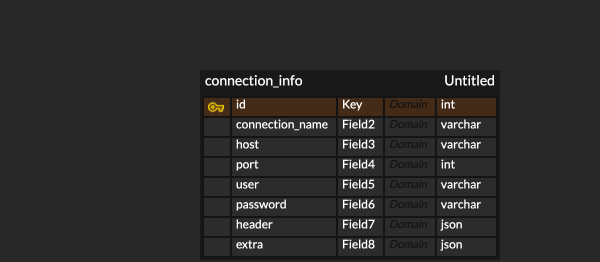
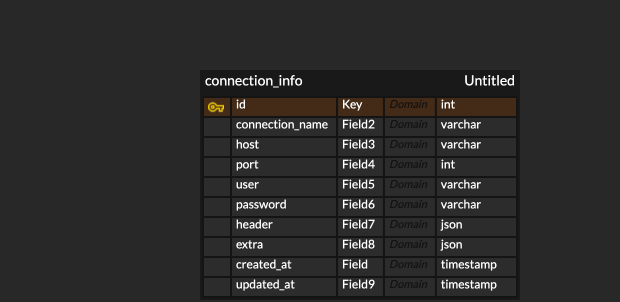
entity 정의 프로세스 가이드 정리 및 data 모델링 내용 추가

Changed region(s): [[0.33, 0.2443, 0.84, 0.9771], [0.69, 0.458, 0.81, 0.9771]]

diff --git a/design/Development_Process/DataModeling_process.md b/design/Development_Process/DataModeling_process.md
@@ -1,15 +1,13 @@
 # DB connection 관리 로직
 
-# Data modeling이 완료된 데이터 베이스 생성 프로세스
-
-## 1. Data modeling 진행 후 Aliembic을 통해 마이그레이션 징행
+## 1. Data modeling 진행 후 Aliembic을 통해 마이그레이션 진행
 
 ---
 
 <aside>
-💡 alembic 최초 실행시에는 ‘alembic init’ 명령어를 통해 필요 파일들을 자동으로 생성해주게됩니다 사용자는 **‘alembic.ini’ 파일에서 connection 정보를 변경하거나 [env.py](http://env.py) 파일의 특정 함수를 추가해줌으로써 연결에 대한 정보를 변경 할 수 있도록 설정해야합니다**
+💡 alembic 최초 실행시에는 ‘alembic init’ 명령어를 통해 필요 파일들을 자동으로 생성해주게됩니다 사용자는 ‘alembic.ini’ 파일에서 connection 정보를 변경하거나 env.py 파일의 특정 함수를 추가해줌으로써 연결에 대한 정보를 변경 할 수 있도록 설정해야합니다
 
-</aside>
+</aside> </br>
 
 ### alembic revision
 
@@ -33,13 +31,13 @@ alembic revision -m {메모}
 ```bash
 alembic upgrade head
 ```
-
+<br>
 <aside>
 💡 alembic을 통한 마이그레이션 시 의존성 처리
-alembic은 선행 되어진 마이그레이션 정보와 현재의 마이그레이션에 대한 내용의 의존성을 처리하기 위해 특정 변수들을 활용해 비교를 하게됩니다 또한 이 변수는 마이그레이션하게되는 타겟 database의 table 형태로 저장되어져 내용이 보존되어지게됩니다
+alembic은 선행 되어진 마이그레이션 정보와 현재의 마이그레이션에 대한 내용의 의존성을 처리하기 위해 특정 변수들을 활용해 비교를 하게됩니다 또한 이 변수는 마이그레이션하게되는 타겟 database의 table 형태로 저장되어져 내용이 보존되어지게됩니다  <br>
 변수 종류: ‘`revision`’, ‘`down_revision`’, ‘`branch_labels`’,’`depends_on`’
 
-</aside>
+</aside> <br>
 
 ## 2. FastAPI 비동기 작업으로 인해 ‘DB connection’ 객체도 비동기 프로세스를 통해 생성
 
@@ -81,158 +79,6 @@ session: Union[AsyncSession, async_scoped_session] = async_scoped_session(
     ```
     
 
-## 3. Entity 정의 작업 진행
+## 3. Entity 정의 및 모델링 작업 진행
 
 ---
-
-Entity 정의는 SQLModel을 상속받아 생성하며 sqlAlchemy와 함께 연동하여 사용할 수 있도록 구성
-
-SQLModel 튜토리얼 가이드 : [https://sqlmodel.tiangolo.com/tutorial/](https://sqlmodel.tiangolo.com/tutorial/)
-
-### baseModel
-
-해당 클래스는 모든 entity 모델에 공통적으로 들어가게되는 설정과 필드를 추상화 해둔 클래스로서 josn에대한 인코딩*디코딩에 대한 설정, 데이터를 생성한 시점과 변경된 시점에 대한 내용이 적용되어지게 됩니다
-
-- 클래스
-    
-    ```python
-    class ModelBase(SQLModel):
-        class Config:
-            json_loads = orjson.loads
-            json_dumps = orjson_dumps
-            json_encoders = {datetime: datetime_convert}  
-    
-           
-        id: Optional[int] = Field(
-            default=None, sa_column=Column(BigInteger, primary_key=True, autoincrement=True)
-        )
-    
-        created_at: Optional[datetime] = Field(
-            default=None,
-            sa_column=Column(
-                type_=TIMESTAMP(timezone=True),
-                default=func.now(),
-                server_default=func.now(),
-                nullable=False,
-            ),
-        )
-    
-        updated_at: Optional[datetime] = Field(
-            default=None,
-            sa_column=Column(
-                type_=TIMESTAMP(timezone=True),
-                default=func.now(),
-                server_default=func.now(),
-                onupdate=func.now(),
-                nullable=False,
-            ),
-        )
-    ```
-    
-- helper 함수
-    
-    ```python
-    def orjson_dumps(v, *, default):
-        
-        return orjson.dumps(v, default=default).decode()
-    
-    def datetime_convert(dt: datetime) -> str:
-        if not dt.tzinfo:
-            dt = dt.replace(tzinfo=ZoneInfo("UTC"))
-    
-        return datetime.astimezone(dt).strftime("%Y-%m-%d %H:%M:%S %z")
-    ```
-    
-    <aside>
-    💡 **orjson 사용이유**
-    orjson은 json 데이터를 인코딩하거나 디코딩하기위한 패키지이다, C 확장 모듈로 만들어져있어 python 기본모듈인 json은 사용하는 것 보다 훨씬 빠른 속도를 보여줌에 따라 orjson을 사용하여 인코딩, 디코딩 작업을 진행한다
-    
-    </aside>
-    
-
-### entity 정의 방법
-
-![https://user-images.githubusercontent.com/65060314/233533768-34e769a4-347e-42bd-bcfe-12344c74ef59.png](https://user-images.githubusercontent.com/65060314/233533768-34e769a4-347e-42bd-bcfe-12344c74ef59.png)
-
-### testing
-
-생성한 entity는 database와의 정상적인 연결 및 동작이되는지 확인하기위해 테스트를 진행합니다 테스트는 CRUD 항목에 대해서 진행하며 테스트 파일을 ‘./test/app/core/db’에 python 모듈을 생성하여 함수를 생성하여 구현합니다
-
-- connection 객체를 생성하기 위한 모듈
-    
-    해당 모듈의 engine 변수를 참조하여 테스트하는 모듈에서 connection 객체를 생성할 수 있도록 정의합니다
-    
-    ```python
-    from sqlmodel import create_engine
-    from app.core.config import Settings
-    
-    SQLALCHEMY_DATABASE_URL = f"postgresql://{Settings.DB_USER}:{Settings.DB_PASS}@{Settings.DB_HOST}:{Settings.DB_PORT}/{Settings.DB_NAME}"
-    engine = create_engine(SQLALCHEMY_DATABASE_URL)
-    ```
-    
-
-[예제]
-
-```python
-from app.entities.model_connection_info import ConnectionInfo
-from sqlmodel import Session, create_engine,select ,SQLModel
-from dbConnectio import engine
-
-SQLModel.metadata.create_all(engine)
-
-def _PostConnectionInfo():
-    connection1 = ConnectionInfo(
-        connection_name="test_conenction",
-        host="test@101.1.1.1",
-        port=8080,
-        user="testuser",
-        password="test11!",
-    )
-
-    with Session(engine) as session:
-        session.add(connection1)
-        session.commit()
-
-def _GetConnectionInfo():
-    with Session(engine) as session:
-        results = select(ConnectionInfo)
-        result = session.exec(results).first()
-        print(result)
-
-        return result
-
-def _UpdateConnectionInfo():
-    with Session(engine) as session:
-        update = select(ConnectionInfo).where(ConnectionInfo.connection_name == "test_connection")
-        
-        results = session.exec(update)
-        result = results.one()
-
-        result.host = "10.101.134.1"
-
-        session.add(result)
-        session.commit()
-
-def _DeleteConnectionInfo():
-    delete = select(ConnectionInfo).where(ConnectionInfo.connection_name=="test_conenction")
-    
-    with Session(engine) as session:
-        results= session.exec(delete)
-
-        result = results.one()
-        print(result)
-
-        session.delete(result)
-        session.commit()
-
-if __name__ == "__main__":
-
-    _PostConnectionInfo()
-
-    _GetConnectionInfo()
-
-    _UpdateConnectionInfo()
-    
-
-    _DeleteConnectionInfo()
-```

diff --git a/design/Data_Modeling/README.md b/design/Data_Modeling/README.md
@@ -1,0 +1,27 @@
+# 데이터 모델링
+
+- [ 데이터 모델링 과정 링크](../Development_Process/DataModeling_process.md)
+
+# connection_info
+
+해당 테이블은 사용자가 입력한 연결하고자하는 computing 환경을 저장하기위한 테이블 입니다 
+
+- 다이어그램
+
+![https://user-images.githubusercontent.com/65060314/233538469-e7ad7713-62d3-4525-a16b-abb47c921392.png](https://user-images.githubusercontent.com/65060314/233538469-e7ad7713-62d3-4525-a16b-abb47c921392.png)
+
+- Field 설정
+    
+    
+    | Field 명 | 타입 | 내용 |
+    | --- | --- | --- |
+    | id | int | 모든 테이블에 기본적으로 존재하는 식별 값 |
+    | created_at | timestamp | 모든 테이블에 기본적으로 존재하는 해당 데이터가 생성된 timsatmp 데이터 |
+    | updated_at | timestamp | 모든 테이블에 기본적으로 존재하는 해당 데이터가 수정된 timsatmp 데이터 |
+    | connection_name | varchar | 사용자가 등록할 때 입력한 connection 정보의 식별 이름 |
+    | host | varchar | 연결한 컴퓨팅 환경의 host 주소 |
+    | port | int | 연결할 컴퓨팅 환경의 port 정보 |
+    | user | varchar | 연결할 컴퓨팅 환경의 user 정보 |
+    | password | varchar | 연결할 컴퓨팅 환경의 계정 password 정보 |
+    | header | json | 연결 시 추가적으로 설정해주어야하는 header 정보 |
+    | extra | json | 연결 시 추가적으로 필요한 사항에 대한 요소들을 정의 |
